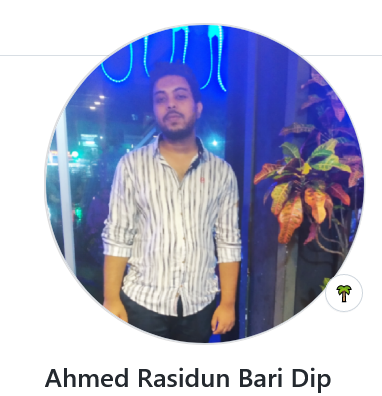
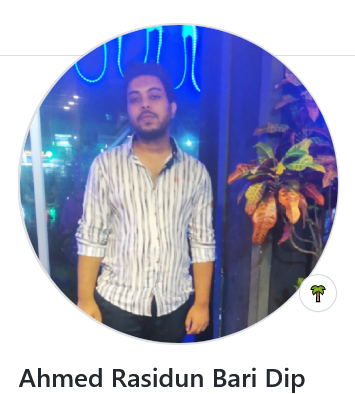
map modified

diff --git a/html/index.html b/html/index.html
@@ -130,7 +130,7 @@
       <div class="row">
         <div class="col-lg-5 py-4">
           <div class="img-caption">
-            <img src="../assets/img/pic.png" alt="" style=" height: 400px; width: 400px;">
+            <img src="../assets/img/pic.png" alt="" style=" height: 400px; width: 360px;">
           </div>
         </div>
         <div class="col-lg-6 offset-lg-1 wow fadeInRight">
@@ -388,7 +388,7 @@
         </div>
         
         <div class="grid-item template wireframes wow zoomIn">
-          <div class="img-place" data-src="../assets/img/work/work2.png" data-fancybox data-caption="<h5 class='fg-theme'>Music App</h5> <p>Musics</p>">
+          <div class="img-place" data-src="../assets/img/work/work2.png" data-fancybox data-caption="<h5 class='fg-theme'>E-Bank</h5> <p>Laravel</p>">
             <img src="../assets/img/work/work2.png" alt="">
             <div class="img-caption">
               <h5 class="fg-theme">E-Bank using Laravel</h5>
@@ -421,7 +421,7 @@
           <a class="btn btn-theme-outline" href="https://ahmeddip.github.io/Restaurant_Project/">GitHub Link</a>
         </div>
         <div class="grid-item graphic ui-ux wireframes wow zoomIn">
-          <div class="img-place" data-src="../assets/img/work/work-7.png" data-fancybox data-caption="<h5 class='fg-theme'>Game Streaming</h5> <p>Games, Streaming</p>">
+          <div class="img-place" data-src="../assets/img/work/work-7.png" data-fancybox data-caption="<h5 class='fg-theme'>Blood Bank Management System</h5> <p>C#</p>">
             <img src="../assets/img/work/work-7.png" alt="">
             <div class="img-caption">
               <h5 class="fg-theme">Blood Bank Management System (C#)</h5>
@@ -678,7 +678,7 @@
         <div class="wow zoomIn">
           <div class="vg-maps">
             
-            <div id="google-maps">
+            <div id="google-maps" style="margin: 10px">
               <iframe src="https://www.google.com/maps/embed?pb=!1m18!1m12!1m3!1d3649.885121934006!2d90.39205029086752!3d23.822683736502775!2m3!1f0!2f0!3f0!3m2!1i1024!2i768!4f13.1!3m3!1m2!1s0x3755c77cbb1fa9e5%3A0x569577792aeedbc0!2sECB%20Chattar!5e0!3m2!1sbn!2sbd!4v1636068971735!5m2!1sbn!2sbd" width="620" height="480" style="border:0;" allowfullscreen="" loading="lazy"></iframe>
             </div> 
           </div>
